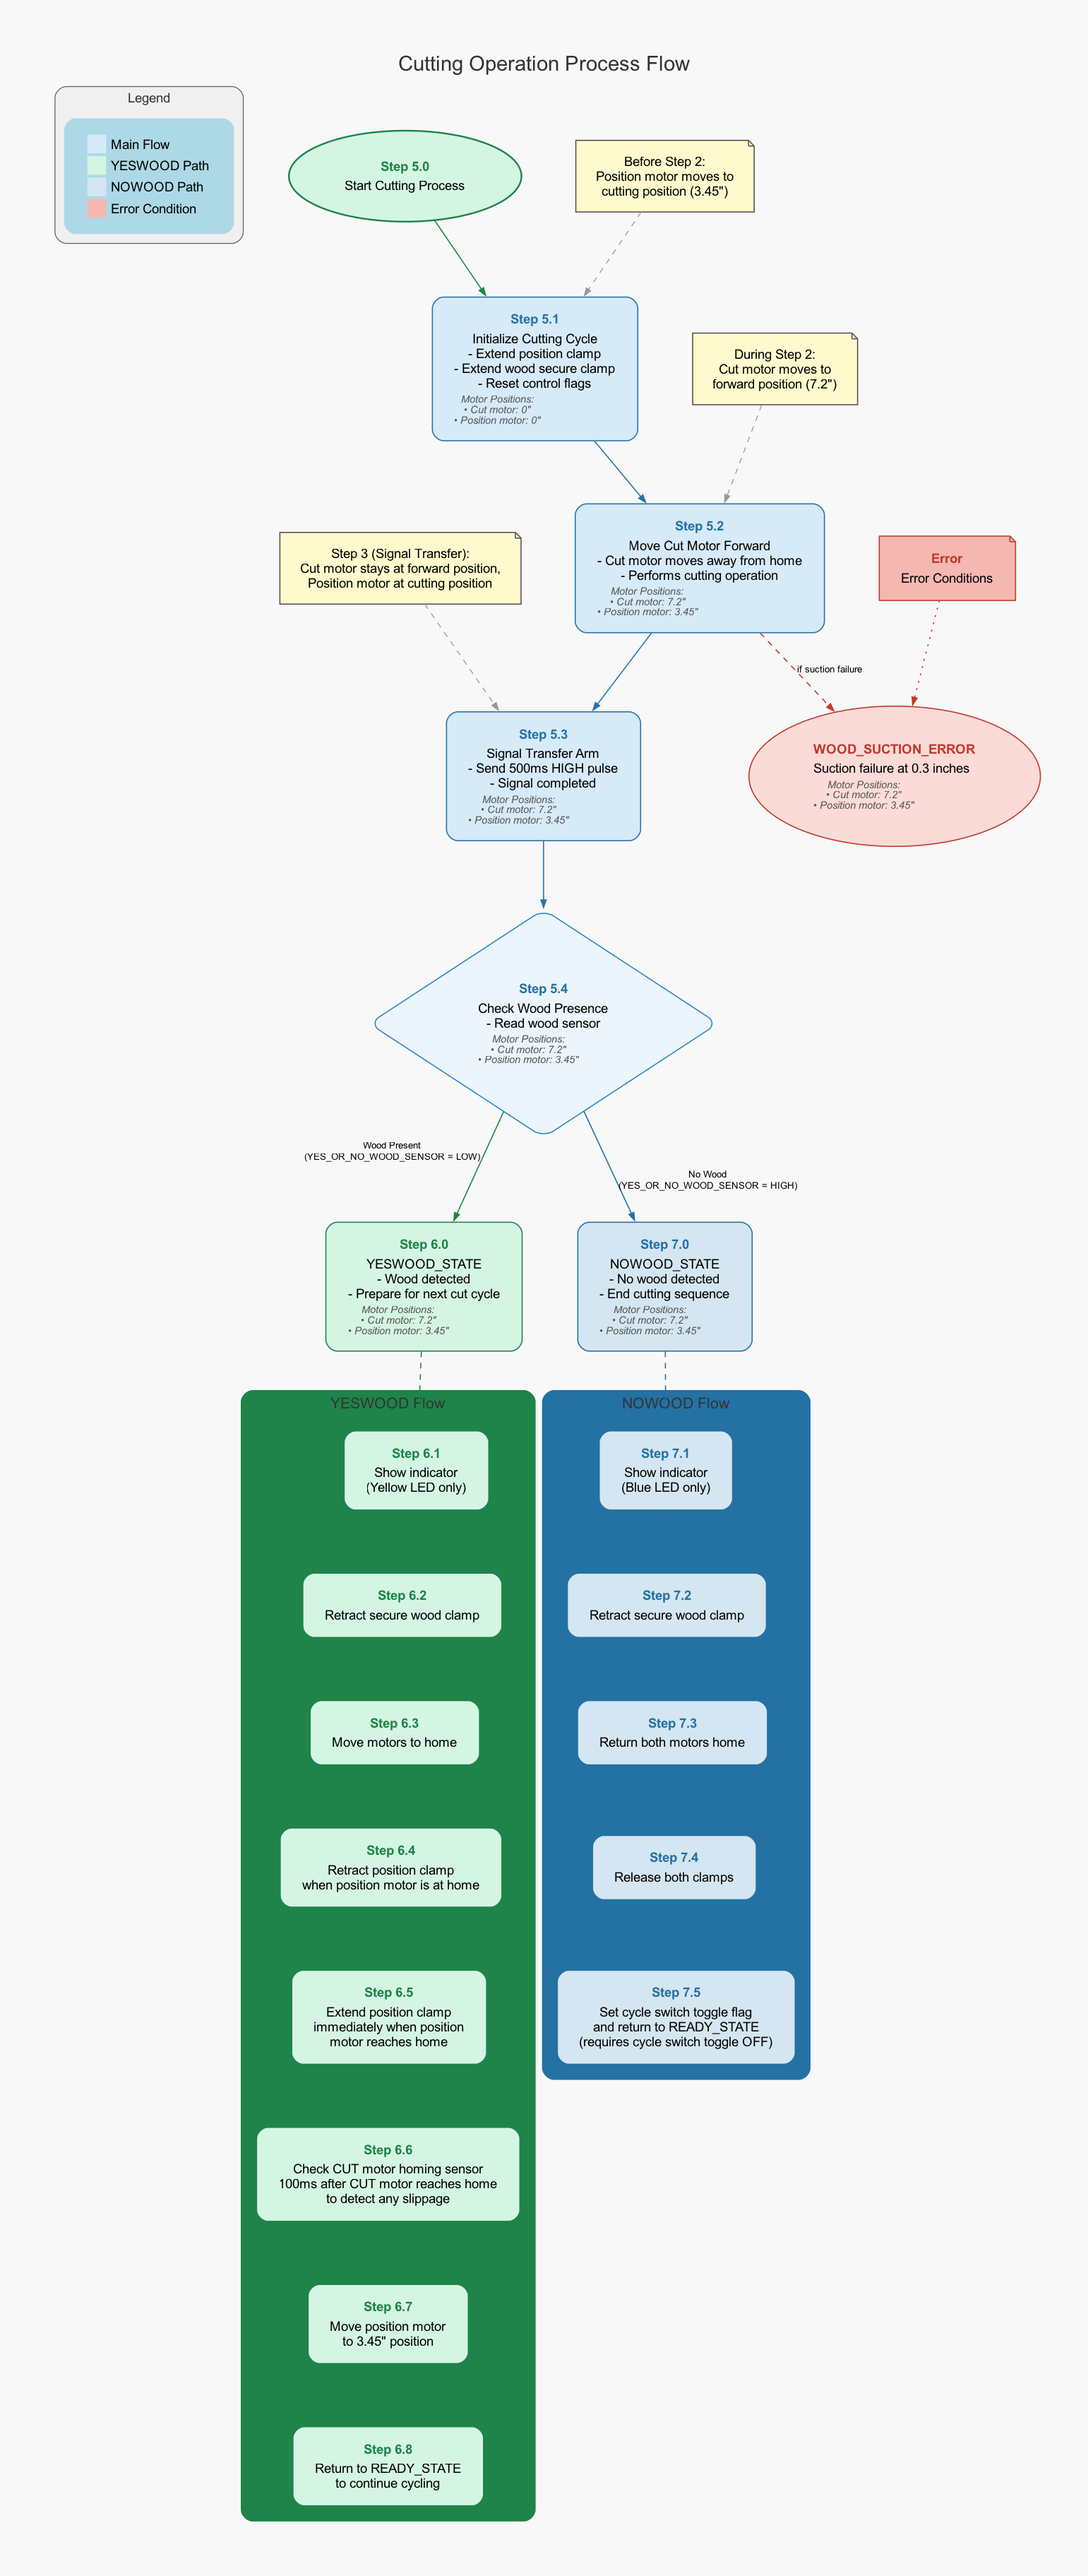
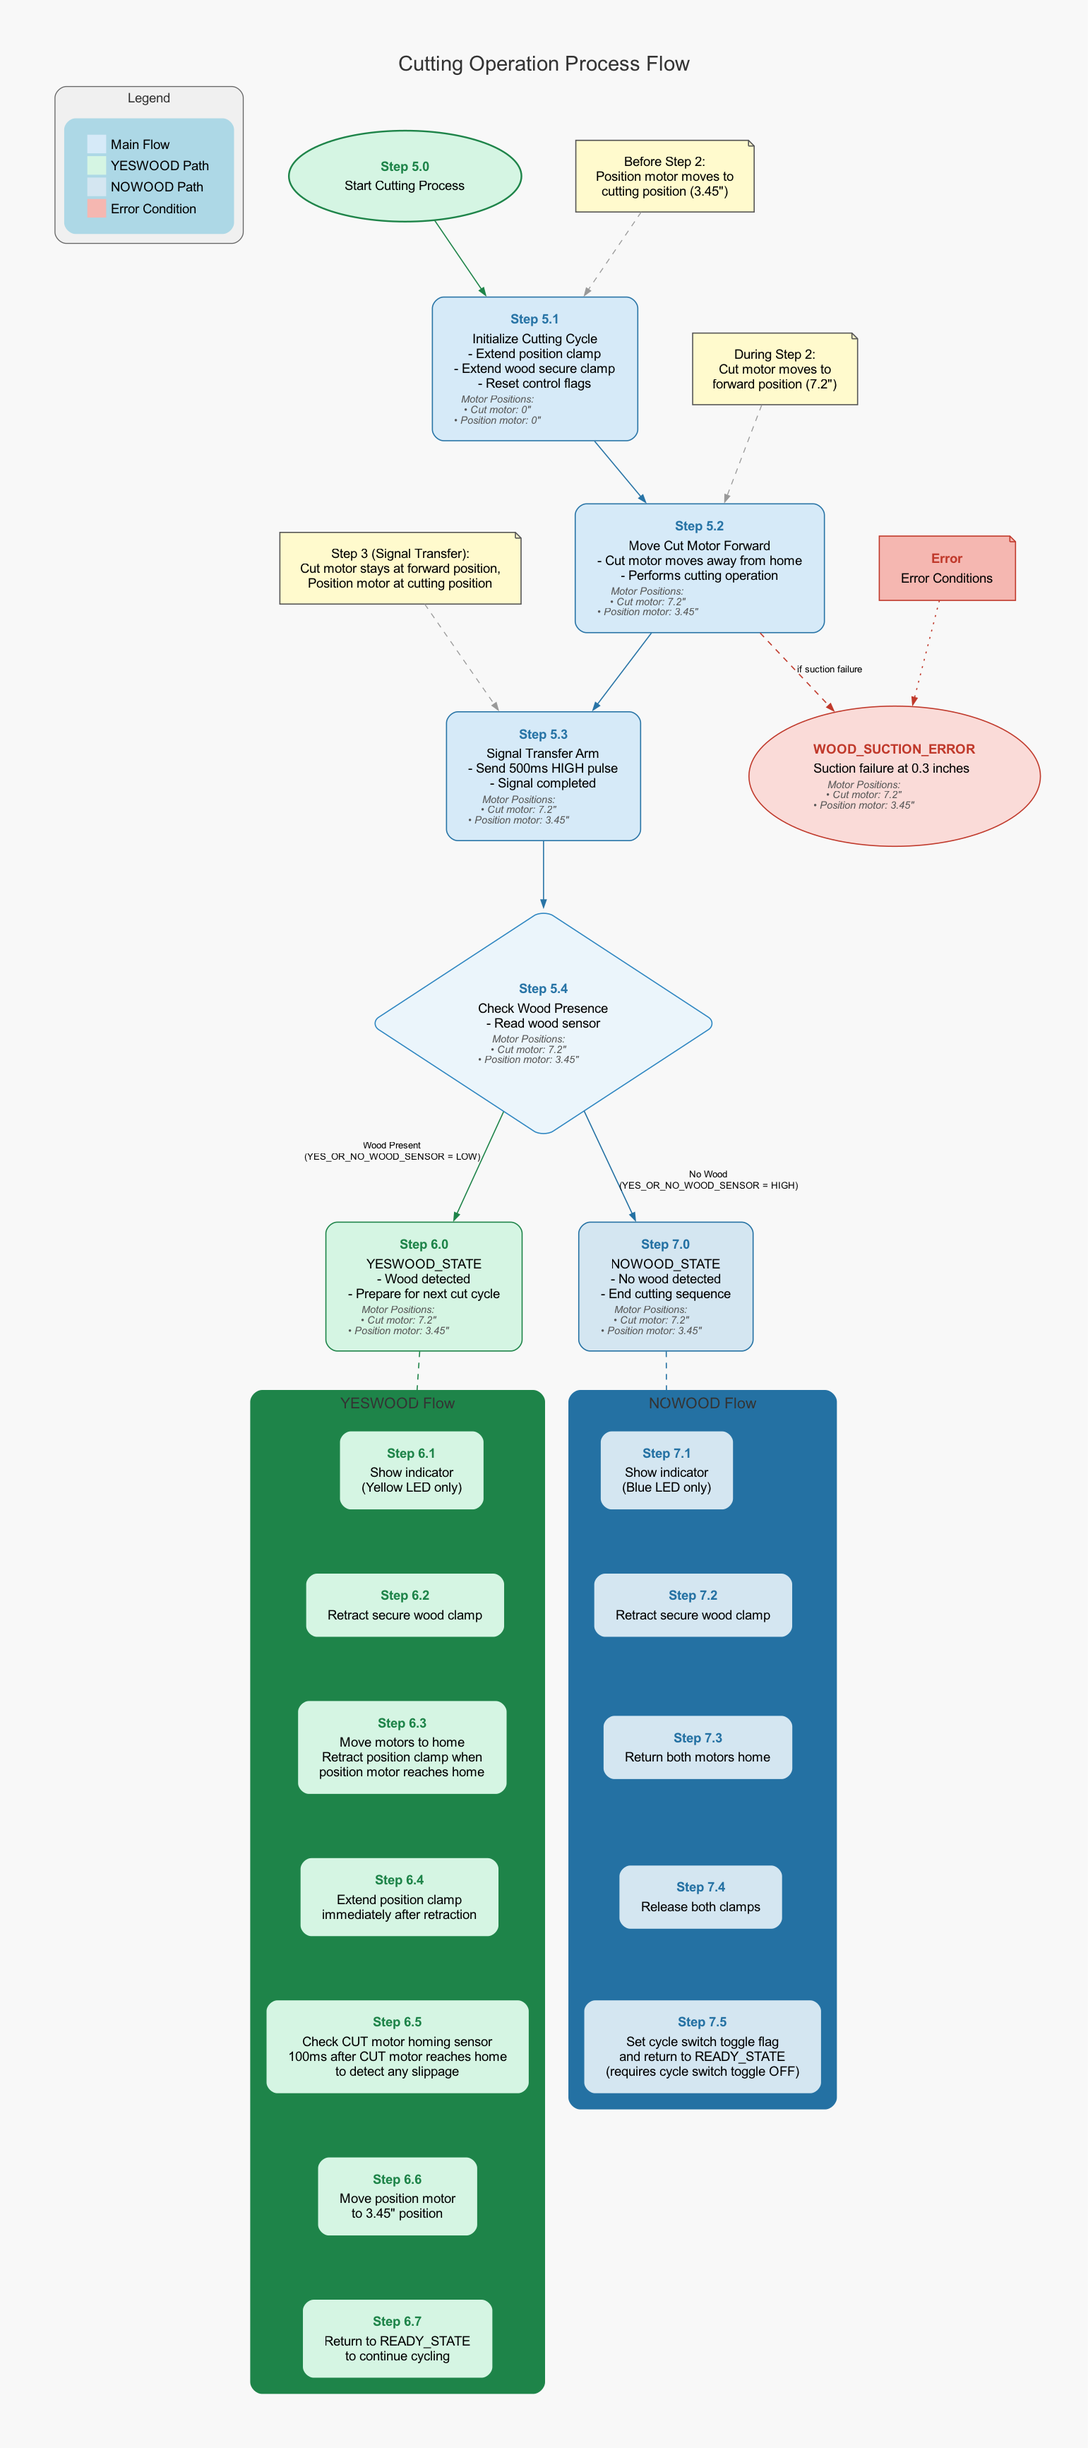
Fixed flowchart/code inconsistencies: YESWOOD solid yellow, improved position motor homing timing, and updated step numbering

Changed region(s): [[0.218, 0.4362, 0.7787, 0.9971], [0.2492, 0.0, 0.9656, 0.4362], [0.0623, 0.0312, 0.218, 0.0935]]

diff --git a/src/operations/12_YesWood.cpp b/src/operations/12_YesWood.cpp
@@ -4,6 +4,7 @@
 
 // Global variables for this module
 static unsigned long cutMotorHomeCheckTimer = 0;
+static bool positionMotorHomed = false;
 
 // Handle yes wood state - indicates wood is present after cutting
 void handleYesWoodState() {
@@ -11,6 +12,9 @@ void handleYesWoodState() {
     case 0: // Step 6.1: Show indicator LEDs first - Yellow only
       // Set LED indicators for YesWood path at the beginning of the state
       setYesWoodIndicator();
+      
+      // Reset position motor homed flag at the start of the state
+      positionMotorHomed = false;
       
       subState = 1;
       break;
@@ -21,7 +25,7 @@ void handleYesWoodState() {
       subState = 2;
       break;
       
-    case 2: // Step 6.3: Move motors to home
+    case 2: // Step 6.3: Move motors to home and control position clamp timing
       // Set motors to return settings for faster return
       Motors_RETURN_settings();
       
@@ -29,49 +33,41 @@ void handleYesWoodState() {
       moveCutMotorToPosition(0);
       movePositionMotorToPosition(0);
       
+      // Check if position motor has reached home
+      if (isMotorInPosition(positionMotor, 0) && !positionMotorHomed) {
+        // Position motor reached home, now retract position clamp immediately
+        retractPositionClamp();
+        positionMotorHomed = true;
+      }
+      
+      // Once both motors have reached home, proceed to next step
       if (isMotorInPosition(cutMotor, 0) && isMotorInPosition(positionMotor, 0)) {
         subState = 3;
       }
       break;
       
-    case 3: // Step 6.4: Retract position clamp when motors are at home
-      // The position motor is now at home position (0 inches), not at 3.35 inches
-      // Retract position clamp
-      retractPositionClamp();
+    case 3: // Step 6.4: Extend position clamp immediately after retraction
+      // Immediately extend position clamp
+      extendPositionClamp();
       
       subState = 4;
       break;
       
-    case 4: // Step 6.5: Extend position clamp immediately when position motor reaches home
-      // Immediately extend position clamp
-      extendPositionClamp();
-      
-      subState = 5;
-      break;
-      
-    case 5: // Step 6.6: Check cut motor homing sensor 100ms after reaching home
-      // Start timer for 100ms check
-      if (cutMotorHomeCheckTimer == 0) {
-        cutMotorHomeCheckTimer = millis();
-      }
-      
-      // Check cut motor homing sensor after 100ms
-      if (millis() - cutMotorHomeCheckTimer >= 100) {
-        // If homing sensor is not active, enter error state
-        if (!readCutMotorHomingSwitch()) {
+    case 4: // Step 6.5: Check cut motor home sensor to detect slippage
+      // Wait 100ms before checking the cut motor home sensor to allow for settling
+      if (Wait(100, &cutMotorHomeCheckTimer)) {
+        // Check if the cut motor is still at the home position
+        if (!isCutMotorAtHome()) {
+          // Cut motor is not at home - indicates potential slippage
           enterState(CUT_MOTOR_HOME_ERROR_STATE);
-          return;
+        } else {
+          // Motor is properly homed, continue to next step
+          subState = 5;
         }
-        
-        // Reset timer
-        cutMotorHomeCheckTimer = 0;
-        
-        // Proceed to next step
-        subState = 6;
       }
       break;
       
-    case 6: // Step 6.7: Move position motor to 3.45" position
+    case 5: // Step 6.6: Move position motor to 3.45" position
       movePositionMotorToPosition(POSITION_MOTOR_TRAVEL_DISTANCE); // 3.45 inches
       
       // Once position reached, immediately transition to READY
@@ -88,14 +84,6 @@ void handleYesWoodState() {
       }
       break;
   }
-}
-
-// Function to set LEDs for the YESWOOD state - used by LED control module
-void setYesWoodPattern() {
-  setYellowLed(true);
-  setGreenLed(true);
-  setBlueLed(false);
-  setRedLed(false);
 }
 
 // Show the YesWood state indicator (Yellow LED only)
